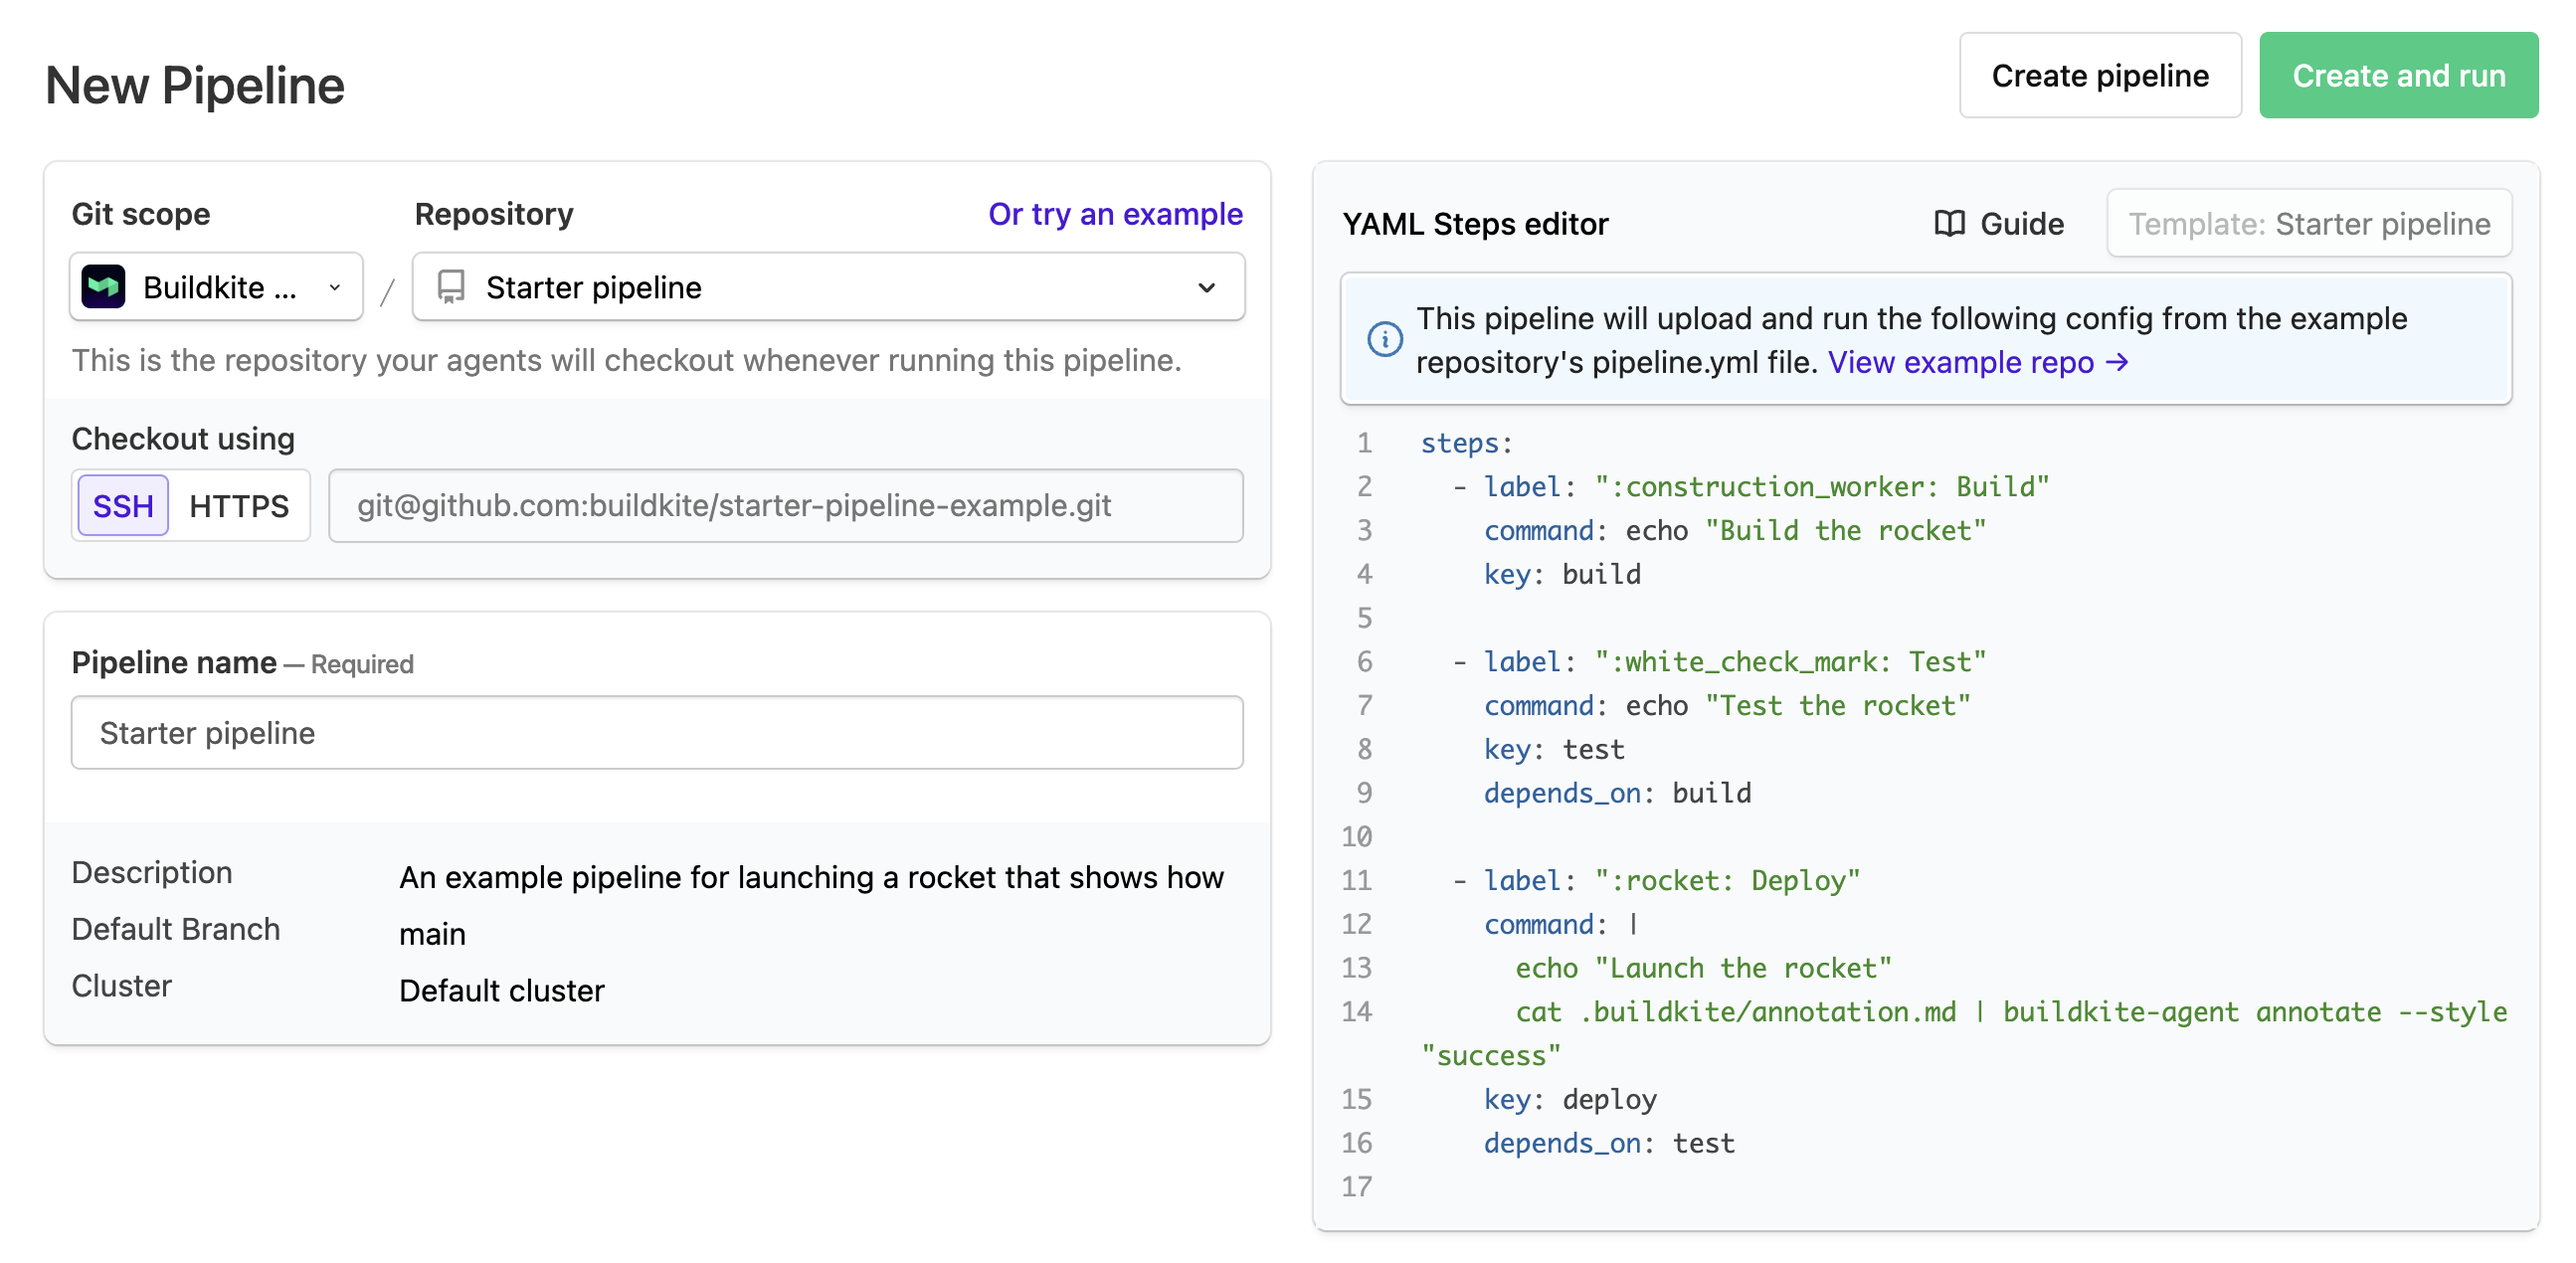
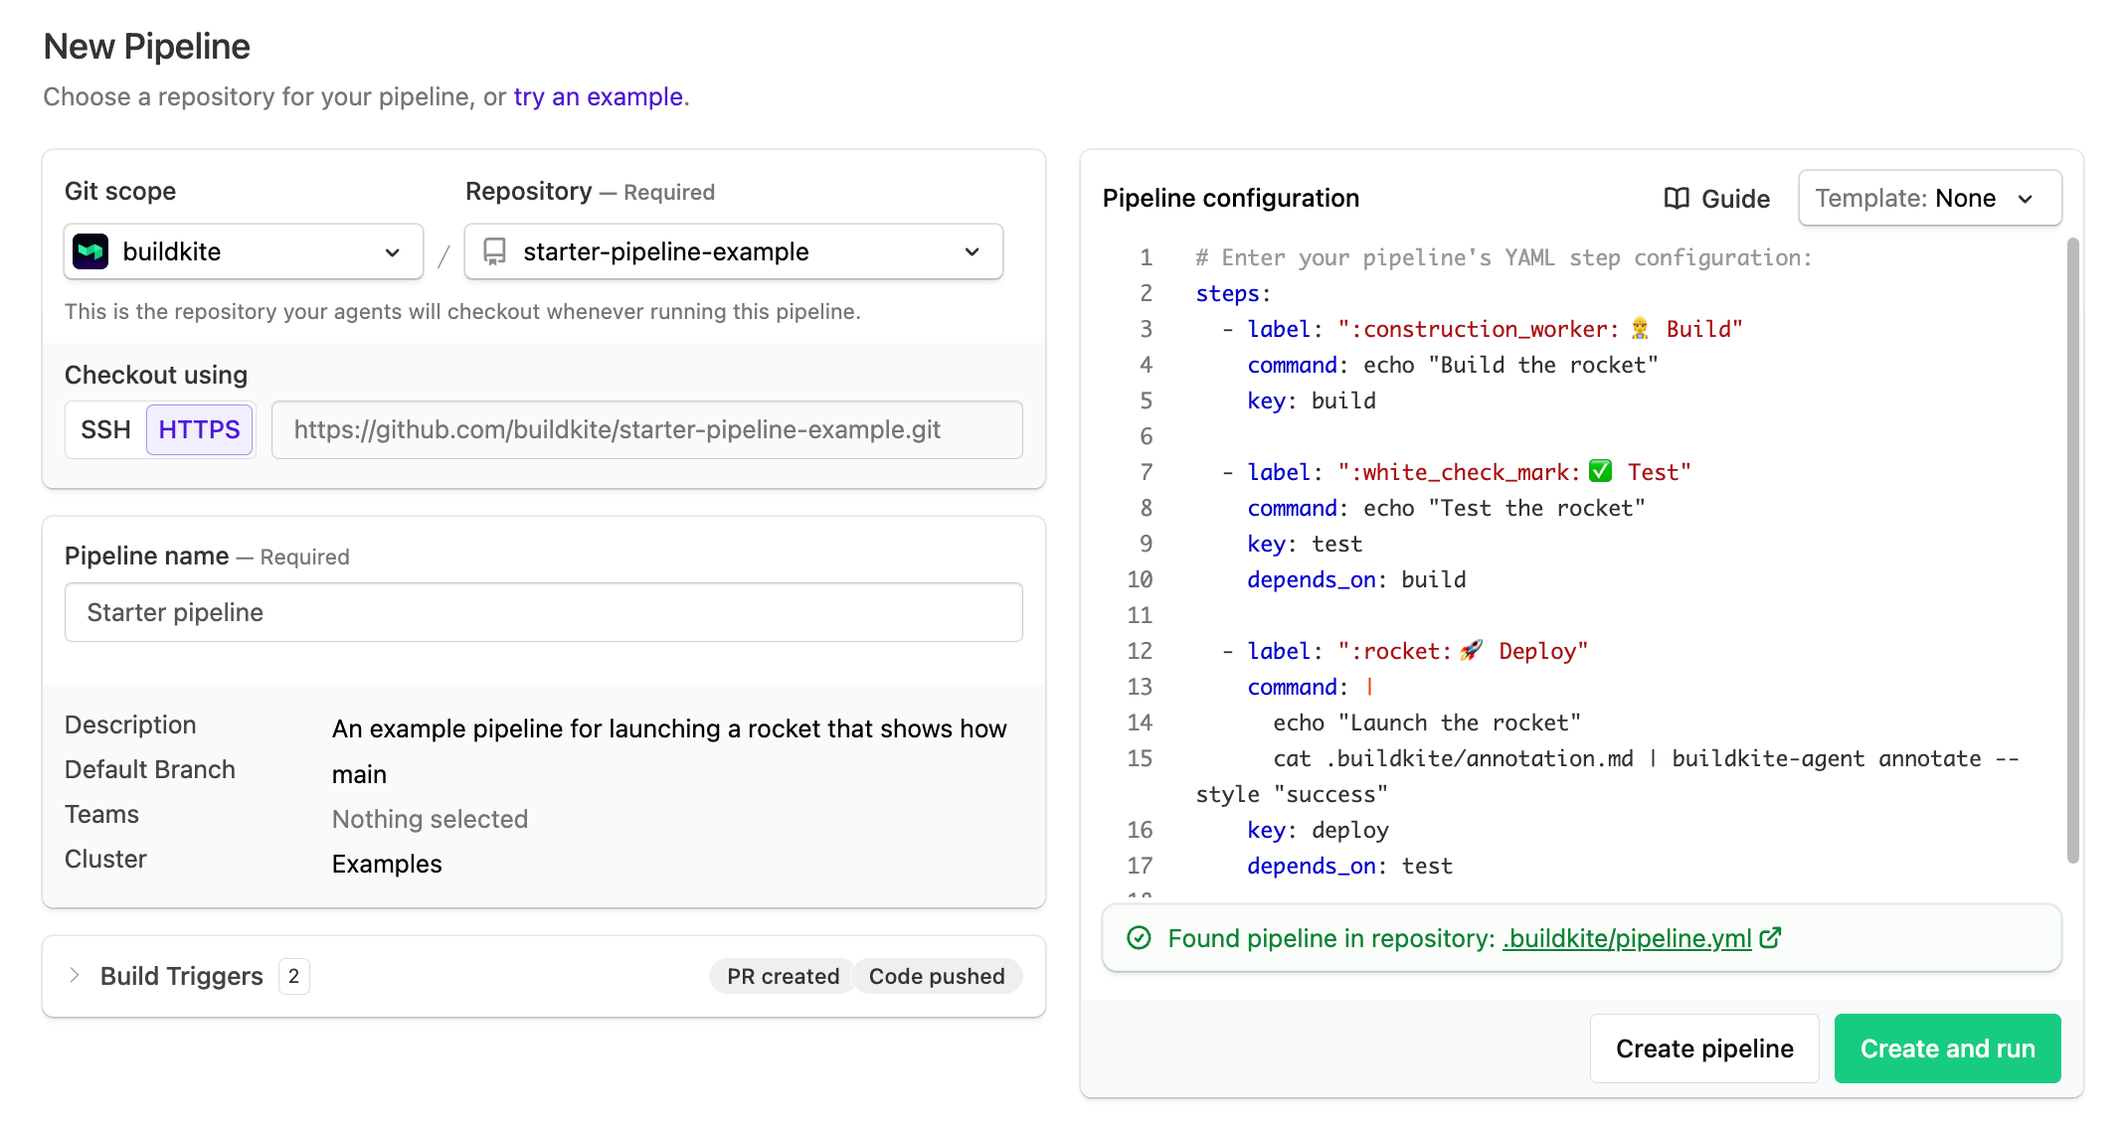
Refresh New Pipeline screenshots across the docs
Amp-Thread-ID: https://ampcode.com/threads/T-01a0c99f-7964-755f-9d3b-90e54626212e

diff --git a/pages/pipelines/source_control/github.md b/pages/pipelines/source_control/github.md
@@ -77,7 +77,7 @@ The **GitHub** (full access) option additionally requests read access to code, w
 1. Select **Pipelines** > **New pipeline**.
 1. Enter your pipeline details, including your GitHub repository URL in the form `git@github.com:your/repo`.
 
-    <%= image "new-pipeline-page.png", width: 1550/2, height: 846/2, alt: "Screenshot of adding a new pipeline" %>
+    <%= image "new-pipeline-page.png", width: 2136/2, height: 1132/2, alt: "Screenshot of adding a new pipeline" %>
 
 1. If you are still using the web steps visual editor, add at least one step to your pipeline. Refer to [Defining Steps - Adding steps](/docs/pipelines/configure/defining-steps#adding-steps) for more information.
 1. Select **Create Pipeline**.

diff --git a/pages/pipelines/configure/defining_steps.md b/pages/pipelines/configure/defining_steps.md
@@ -10,7 +10,7 @@ On the **Pipelines** page, select **New pipeline** to begin creating a new pipel
 
 The required fields are **Git scope**, **Repository** and **Pipeline name**.
 
-<%= image "new-pipeline-page.png", width: 1768/2, height: 928/2, alt: "Screenshot of the 'New Pipeline' setup form" %>
+<%= image "new-pipeline-page.png", width: 2136/2, height: 1132/2, alt: "Screenshot of the 'New Pipeline' setup form" %>
 
 Learn more about this page from [Understanding the New Pipeline page](/docs/pipelines/getting-started#create-a-new-pipeline-understanding-the-new-pipeline-page).
 

diff --git a/pages/pipelines/getting_started.md b/pages/pipelines/getting_started.md
@@ -36,7 +36,7 @@ If you signed up:
 
 ### Understanding the New Pipeline page
 
-<%= image "new-pipeline-page.png", alt: "New Pipeline page" %>
+<%= image "new-pipeline-page.png", width: 2136/2, height: 1132/2, alt: "New Pipeline page with the 'try an example' link in the header" %>
 
 The **New Pipeline** page has the following fields:
 
